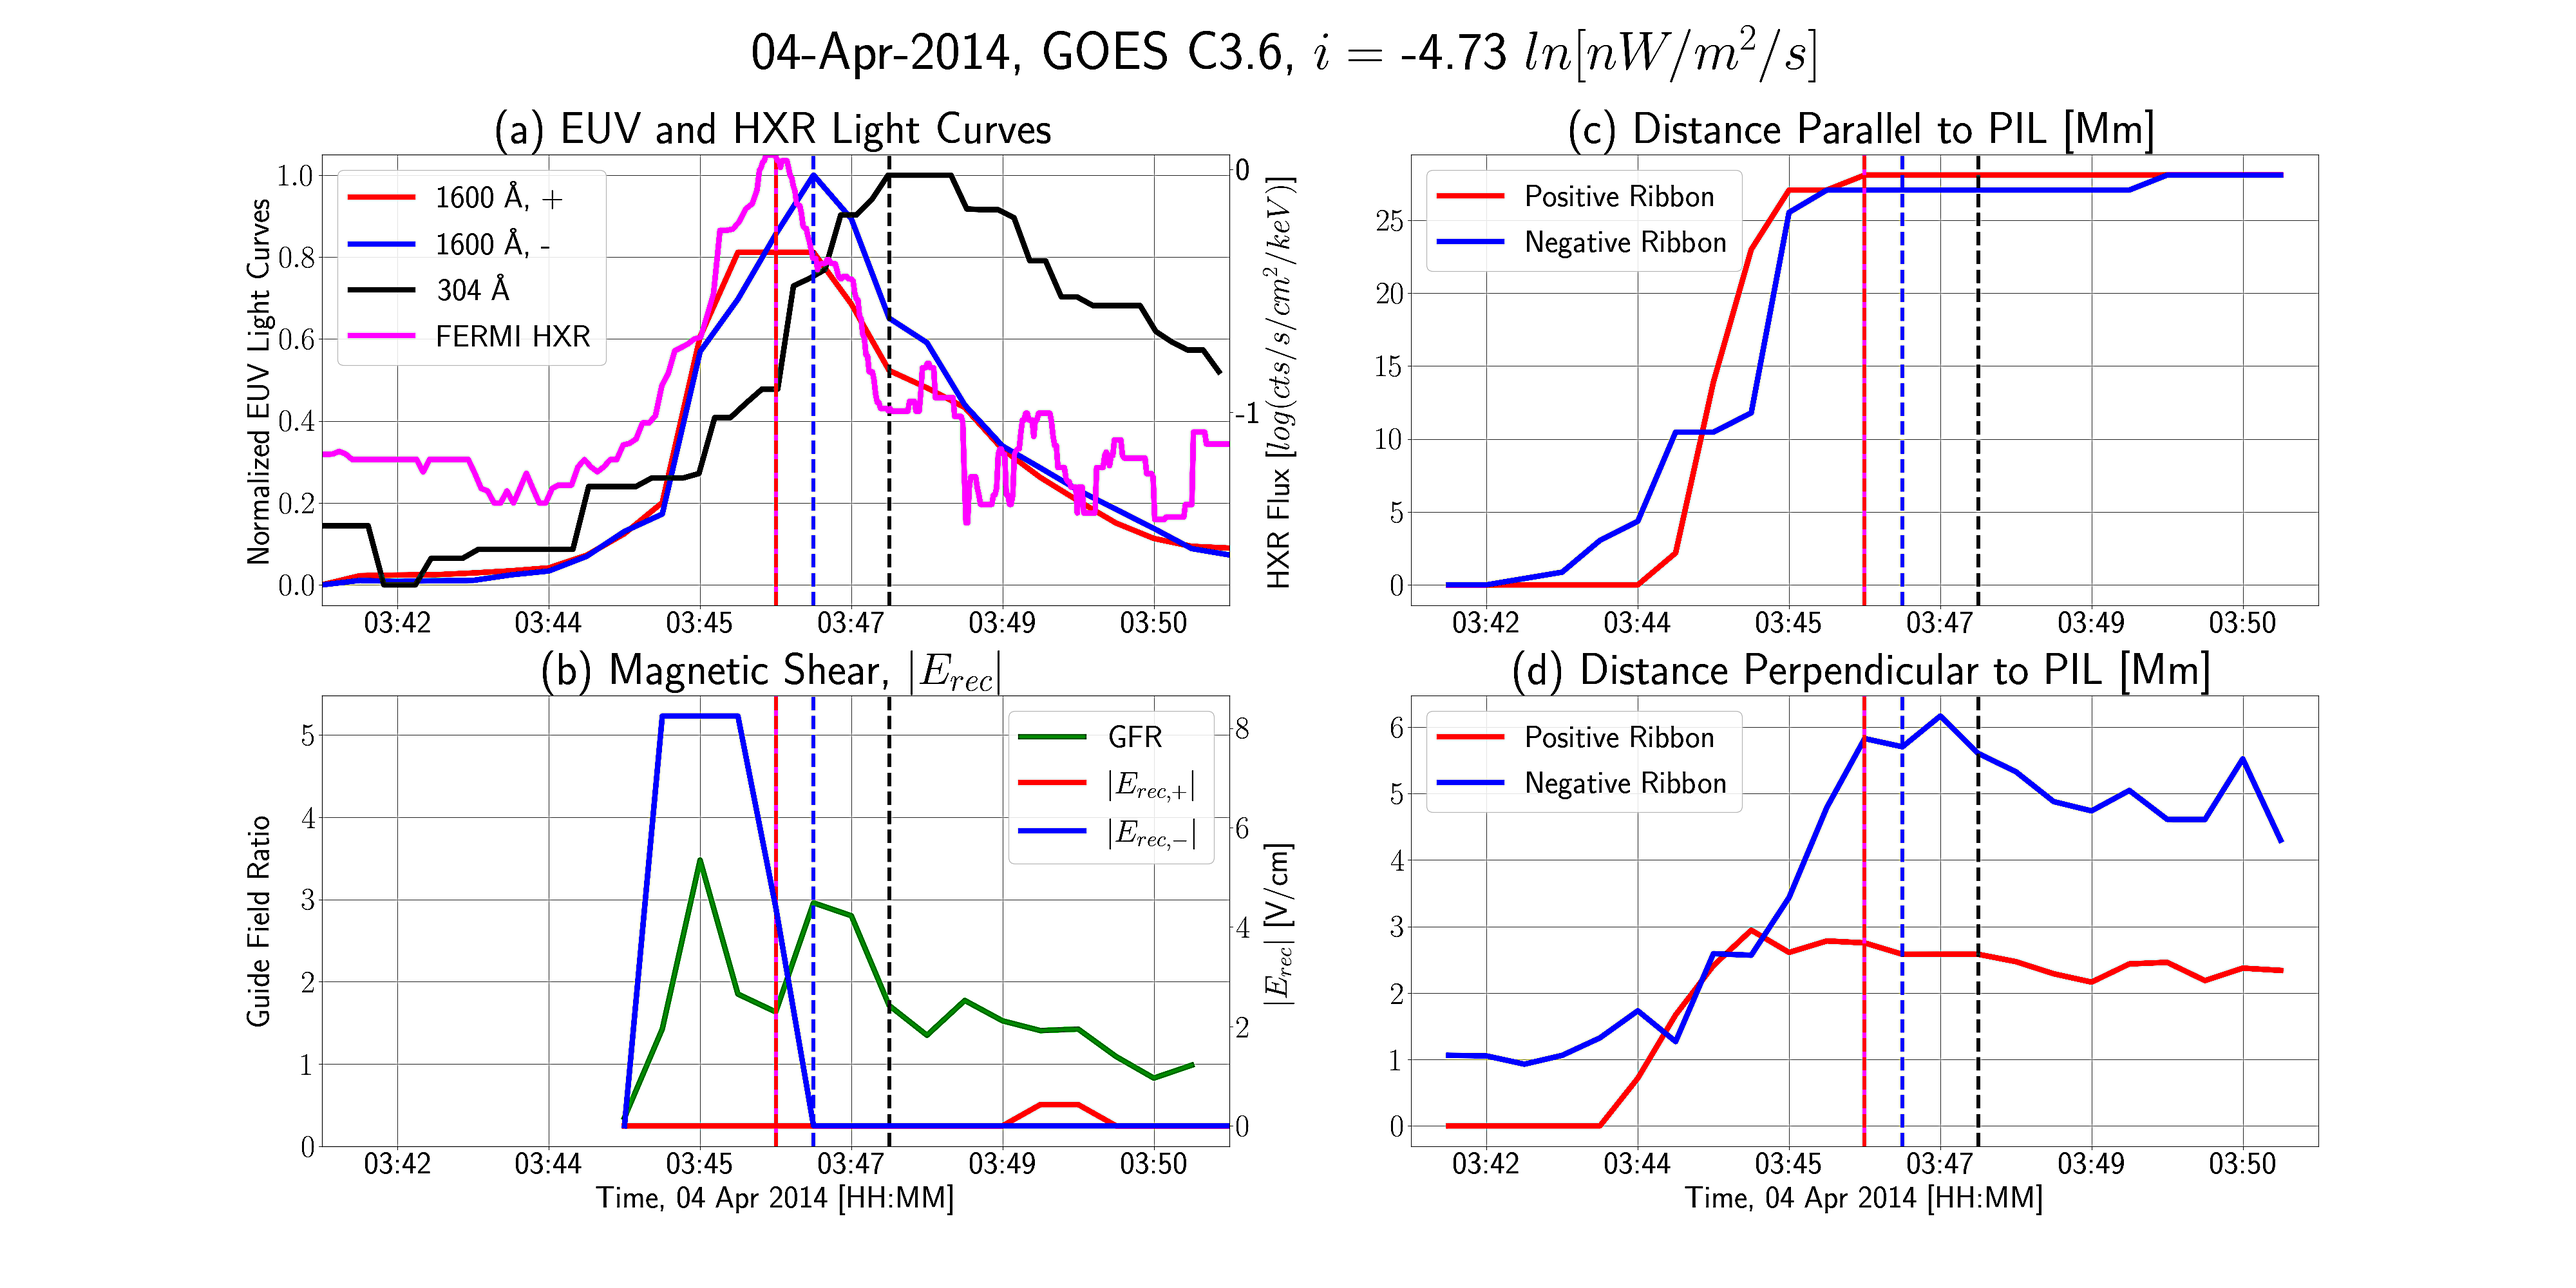
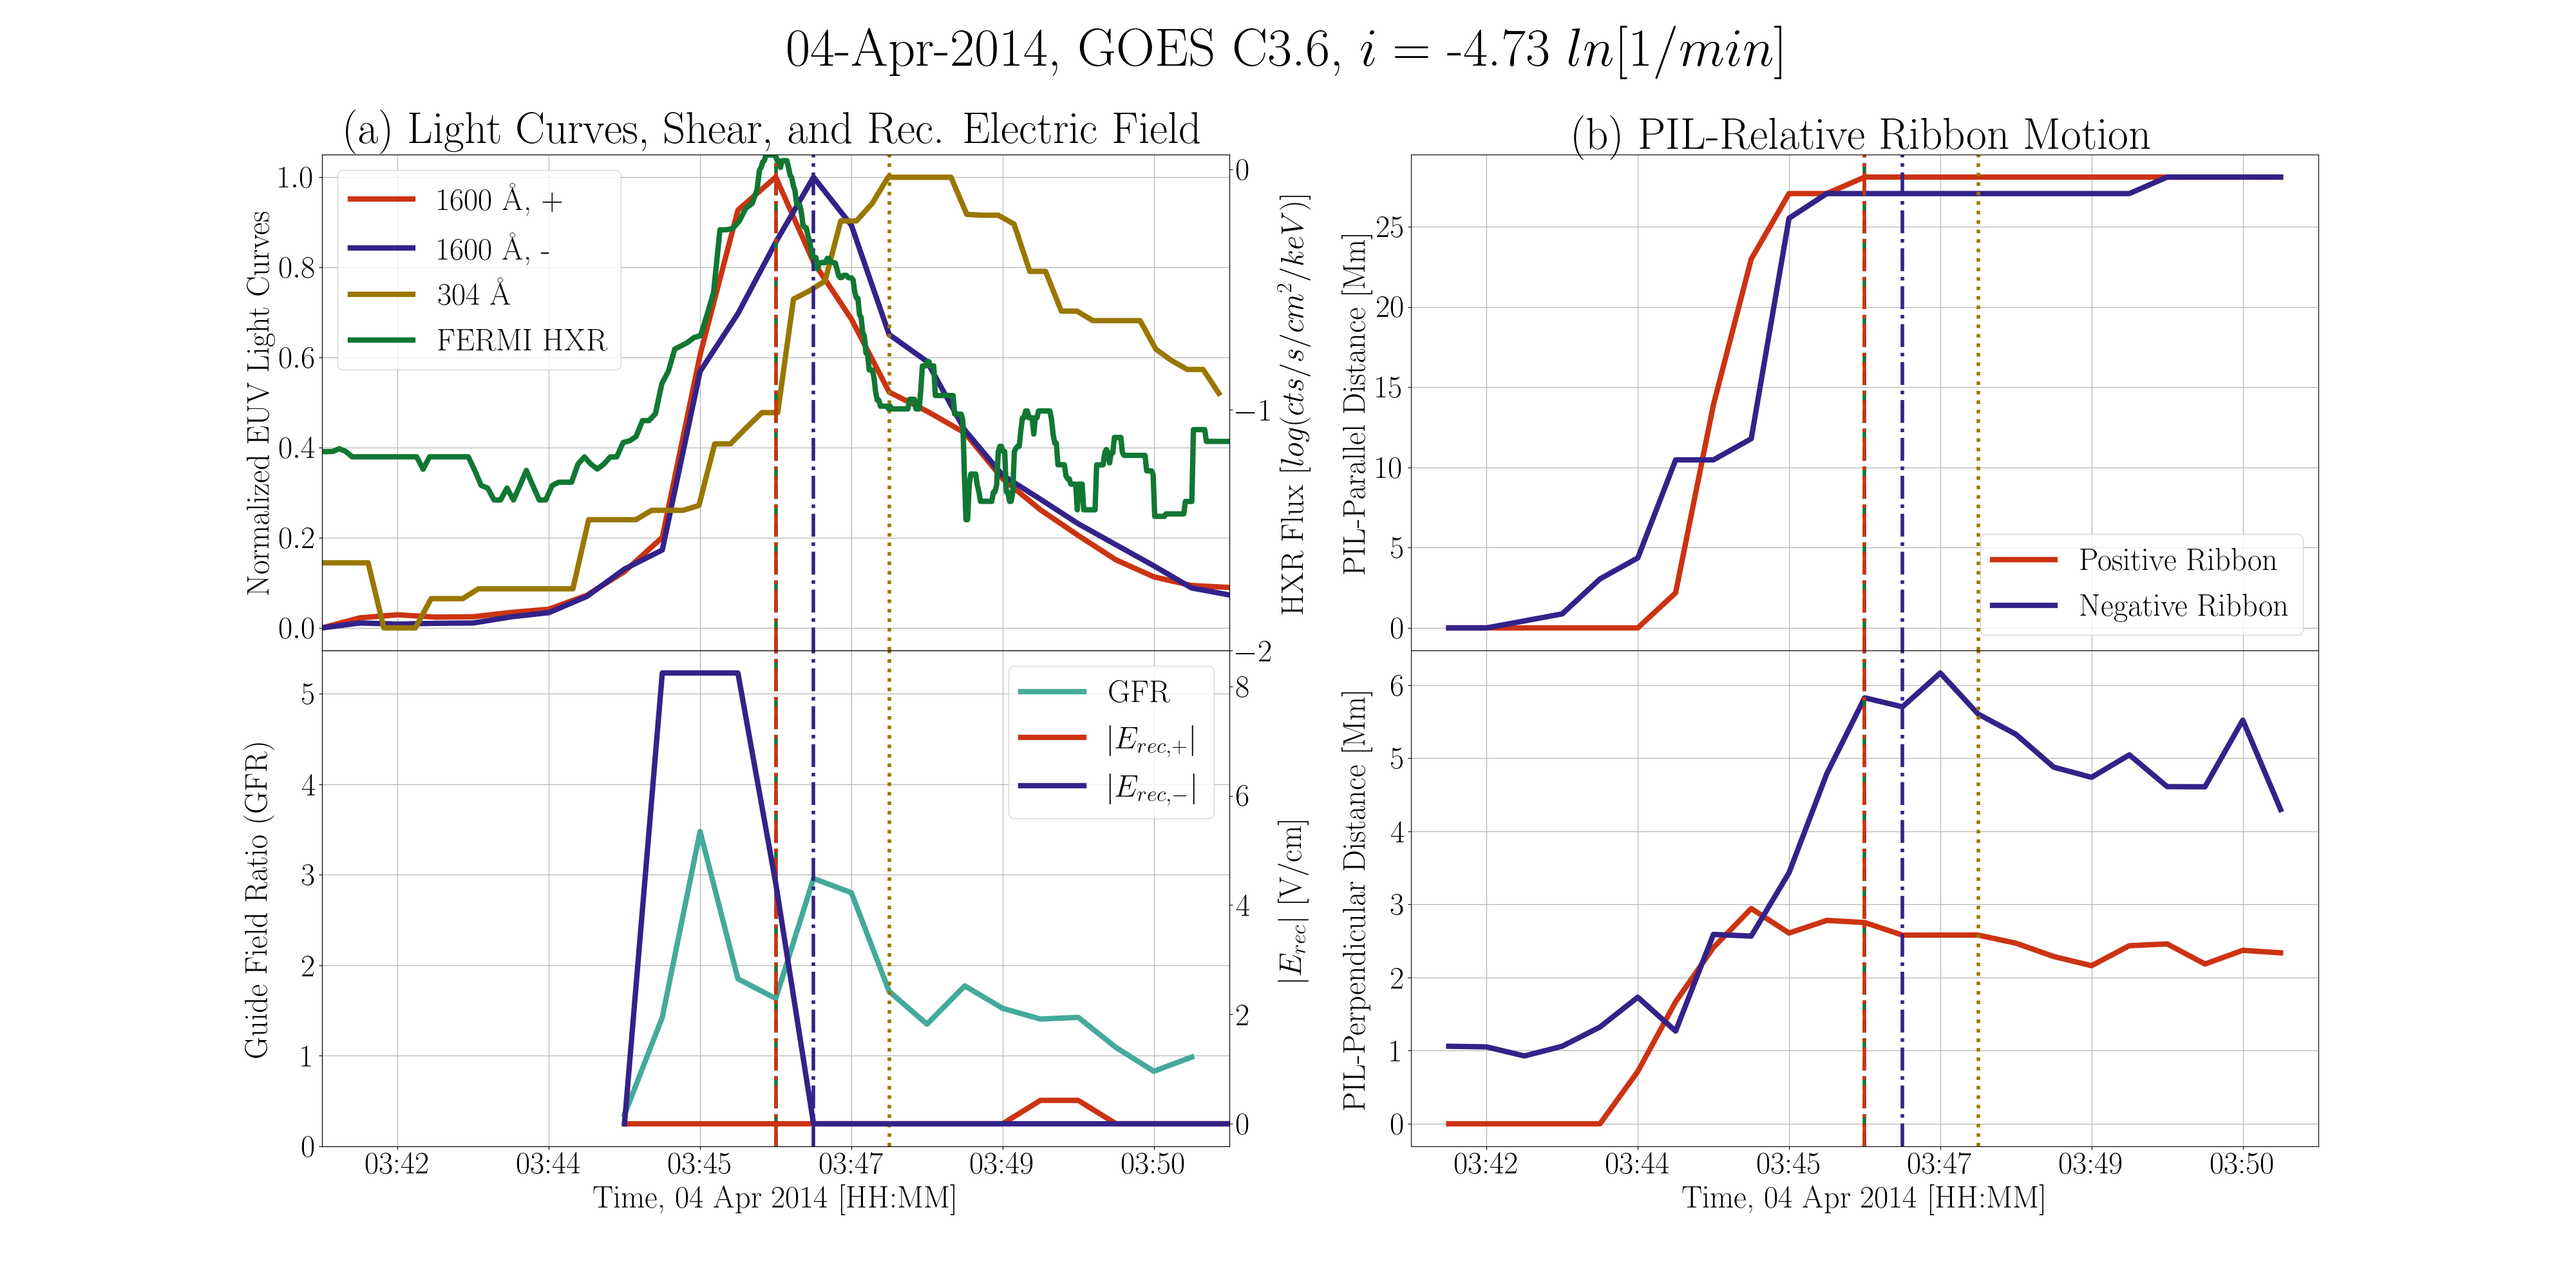
another round of fourpanel edits

diff --git a/fl_funcs.py b/fl_funcs.py
@@ -59,6 +59,7 @@ import time as timepkg
 from matplotlib import font_manager
 from matplotlib.ticker import MaxNLocator
 import pandas as pd
+from matplotlib import gridspec
 
 
 def conv_facts():
@@ -3772,7 +3773,7 @@ def gfrcalc_alt(guide, distneg_med, distpos_med):
     shear.
 
     Parameters
-    ----------
+Iw     ----------
     guide_left : arr
         Guide field strength, right-hand side.
     guide_right : arr
@@ -4151,7 +4152,8 @@ def quartermaxtime(transtime, right_gfr, left_gfr, timelab, find_nearest_idx,
     return quartermax_time
 
 def color_muted():
-    muted =['#332288',  '#88CCEE', '#44AA99', '#117733','#999933', '#DDCC77','#CC6677',  '#882255','#AA4499', '#DDDDDD']
+    muted =['#332288',  '#88CCEE', '#44AA99', '#117733','#999933', '#DDCC77',
+            '#CC6677',  '#882255','#AA4499', '#DDDDDD']
     # 0=indigo
     # 1=cyan
     # 2=teal
@@ -4164,8 +4166,24 @@ def color_muted():
     return muted
 
 def color_vibrant():
-    vibrant = ['#0077BB',  '#33BBEE', '#009988','#EE7733', '#CC3311', '#EE3377', '#BBBBBB'] 
+    vibrant = ['#0077BB',  '#33BBEE', '#009988','#EE7733', '#CC3311', 
+               '#EE3377', '#BBBBBB'] 
+    # CAT - changed grey to #5A5A5A to make darker; originally #BBBBBB
     return vibrant
+
+def color_medc(printc='no'):
+    contrast = [(255,255,255), (238,204,102), (238,153,170), (102,153,204), 
+                (153,119,0), (153,68,85), (0,68,136), (0,0,0)]
+    
+    # 0 is white, 1 is light yellow, 2 is light red, 3 is light blue,
+    # 4 is dark yellow, 5 is dark red, 6 is dark blue, 7 is black
+    for i in range(len(contrast)):    
+        r, g, b = contrast[i]    
+        contrast[i] = (r / 255., g / 255., b / 255.)
+
+    return contrast
+
+
 
 def plt_fourpanel(times, right_gfr, left_gfr, flnum, dt1600, time304,
                   filter_304, lens_pos_Mm, lens_neg_Mm, distpos_Mm, distneg_Mm,
@@ -4177,7 +4195,7 @@ def plt_fourpanel(times, right_gfr, left_gfr, flnum, dt1600, time304,
                   s304, e304, pos1600, neg1600, dn1600, indstrt_elon,
                   indstrt_sep, fermitimes, raw_hxr_sum, cspec_hxr_sum,
                   gfr_trans, E_pos, E_neg, time_E, day, mo, year, xcl, xclnum,
-                  imp, muted, vibrant, low_hxr=0, high_hxr=800, period_flag=0, flag=0,
+                  imp, muted, vibrant, medc, low_hxr=0, high_hxr=800, period_flag=0, flag=0,
                   tick_space=0):
     """
     Four-panel plot to compare HXR/1600 Angstrom/304 Angstrom (panel 1),
@@ -4337,22 +4355,34 @@ def plt_fourpanel(times, right_gfr, left_gfr, flnum, dt1600, time304,
     hxrmaxt = fermitimessel[hxrmax0]
     
     hxrmax = find_nearest_ind(dt1600, hxrmaxt)
+        
+    # 0 is white, 1 is light yellow, 2 is light red, 3 is light blue,
+    # 4 is dark yellow, 5 is dark red, 6 is dark blue, 7 is black
     
-    fig, ((ax1, ax3),(ax2, ax4)) = plt.subplots(2,2, figsize=(40, 20))
+    #fig, ((ax1, ax3),(ax2, ax4)) = plt.subplots(2,2, figsize=(40, 20))
+    fig = plt.figure(figsize=(40, 20))
+    # set height ratios for subplots
+    gs = gridspec.GridSpec(2,2) 
+    ax1 = plt.subplot(gs[0,0])
+    ax2 = plt.subplot(gs[1,0],sharex=ax1)
+    ax3 = plt.subplot(gs[0,1])
+    ax4 = plt.subplot(gs[1,1],sharex=ax3)
     
-    lns1 = ax1.plot(dt1600, normpos1600,markersize=5,linewidth=6, color=muted[8],
+    lns1 = ax1.plot(dt1600, normpos1600,markersize=5,linewidth=6, color=vibrant[4],
                     label=r'1600 \AA, +')
     lns2 = ax1.plot(dt1600, normneg1600, color=muted[0],linewidth=6,
                     label=r'1600 \AA, -')
 
-    lns3 = ax1.plot(dt304[s304:e304], scipy.signal.medfilt(euvdf_fix.euv[s304:e304],kernel_size=5),color=vibrant[5], linewidth=6,
+    lns3 = ax1.plot(dt304[s304:e304], scipy.signal.medfilt(euvdf_fix.euv[s304:e304],
+                                                           kernel_size=5),color=medc[4], 
+                    linewidth=6,
                     label=r'304 \AA')
     ax1_0 = ax1.twinx()
     ax1.axes.xaxis.set_ticklabels([])
     lns4 = ax1_0.plot(fermitimes[low_hxr:high_hxr],
                       scipy.signal.medfilt(
                           fermidf_fix.hxr, kernel_size=21),
-                      label='FERMI HXR', color = vibrant[2],linewidth=6)
+                      label='FERMI HXR', color = muted[3],linewidth=6)
     ax1.grid()
     lns = lns1+lns2+lns3+lns4
     labs = [k.get_label() for k in lns]
@@ -4363,14 +4393,14 @@ def plt_fourpanel(times, right_gfr, left_gfr, flnum, dt1600, time304,
     ax1_0.set_ylabel(
         'HXR Flux [$log(cts/s/cm^{2}/keV)$]',
         fontsize=35)
-    ax1.set_title('(a) EUV and HXR Light Curves',
+    ax1.set_title('(a) Light Curves, Shear,  and Rec. Electric Field',
                   fontsize=50)
     ax1.set_xlim([dt1600[0], dt1600[-1]])
-    ax1.axvline(dt1600[hxrmax],color=vibrant[6],linestyle='dashed',linewidth=4)
-    ax1.axvline(dt1600[max304], color=vibrant[5],linestyle='dashed',linewidth=4)
-    ax1.axvline(dt1600[max1600pos], color=muted[8],linestyle='dashed',linewidth=4)
-    ax1.axvline(dt1600[max1600neg], color=muted[0], linestyle='dashed',linewidth=4)
-    lns1 = ax2.plot(dt1600[gfr_trans:-1], GFR[gfr_trans:-1], c=muted[3],
+    ax1.axvline(dt1600[hxrmax],color=muted[3],linestyle='dashed',linewidth=4)
+    ax1.axvline(dt1600[max304], color=medc[4],linestyle='dotted',linewidth=4)
+    ax1.axvline(dt1600[max1600pos], color=vibrant[4],linestyle='dashdot',linewidth=4)
+    ax1.axvline(dt1600[max1600neg], color=muted[0], linestyle='dashdot',linewidth=4)
+    lns1 = ax2.plot(dt1600[gfr_trans:-1], GFR[gfr_trans:-1], c=muted[2],
                     linewidth=6,
                     label='GFR')
     minfer = min(scipy.signal.medfilt(
@@ -4378,23 +4408,23 @@ def plt_fourpanel(times, right_gfr, left_gfr, flnum, dt1600, time304,
     maxfer = max(scipy.signal.medfilt(
         fermidf_fix.hxr[0:500], kernel_size=9))
     ax1_0.set_ylim(minfer,maxfer)
-
+    
     ax2.set_ylabel('Guide Field Ratio (GFR)', fontsize=35)
-    ax2.set_title(r'(b) Magnetic Shear and $|E_{rec}|$',
-                  fontsize=50)
+    #ax2.set_title(r'(b) Magnetic Shear and $|E_{rec}|$',
+    #              fontsize=50)
     ax2.set_ylim([0, np.nanmax(GFR[gfr_trans:])+2])
     ax2.grid()
 
     ax2.set_xlim([dt1600[0], dt1600[-1]])
-    ax2.axvline(dt1600[hxrmax],color=vibrant[6],linestyle='dashed',linewidth=4)
-    ax2.axvline(dt1600[max304], color=vibrant[5],linestyle='dashed',linewidth=4)
-    ax2.axvline(dt1600[max1600pos], color=muted[8],linestyle='dashed',linewidth=4)
-    ax2.axvline(dt1600[max1600neg], color=muted[0], linestyle='dashed',linewidth=4)
+    ax2.axvline(dt1600[hxrmax],color=muted[3],linestyle='dashed',linewidth=4)
+    ax2.axvline(dt1600[max304], color=medc[4],linestyle='dotted',linewidth=4)
+    ax2.axvline(dt1600[max1600pos], color=vibrant[4],linestyle='dashdot',linewidth=4)
+    ax2.axvline(dt1600[max1600neg], color=muted[0], linestyle='dashdot',linewidth=4)
     font = font_manager.FontProperties(style='normal', size=35)
     #ax2.legend(prop=font, fontsize=20)
     ax2_0 = ax2.twinx()
     lns2 = ax2_0.plot(dt1600[gfr_trans:], E_pos, color=vibrant[4],linewidth=6, label='$|E_{rec, +}|$')
-    lns3 = ax2_0.plot(dt1600[gfr_trans:], E_neg, color=vibrant[1],linewidth=6, label='$|E_{rec, -}|$')
+    lns3 = ax2_0.plot(dt1600[gfr_trans:], E_neg, color=muted[0],linewidth=6, label='$|E_{rec, -}|$')
 
     ax2_0.set_xlim([dt1600[0], dt1600[-1]])
 
@@ -4423,21 +4453,21 @@ def plt_fourpanel(times, right_gfr, left_gfr, flnum, dt1600, time304,
              c=vibrant[4], linewidth=6, label = 'Positive Ribbon')
 
     lns2 = ax3.plot(dt1600[indstrt_elon:-1], lens_neg_Mm[indstrt_elon:-1],
-             c=vibrant[1],linewidth=6, label = 'Negative Ribbon')
+             c=muted[0],linewidth=6, label = 'Negative Ribbon')
 
     ax3.grid()
     ax3.set_ylabel(
-        'Distance [Mm]', fontsize=35)
-    ax3.set_title('(c) Distance Parallel to PIL',
+        'PIL-Parallel Distance [Mm]', fontsize=35)
+    ax3.set_title('(b) PIL-Relative Ribbon Motion',
                   fontsize=50)
 
     ax3.set_xlim([dt1600[0], dt1600[-1]])
 
 
-    ax3.axvline(dt1600[hxrmax],color=vibrant[6],linestyle='dashed',linewidth=4)
-    ax3.axvline(dt1600[max304], color=vibrant[5],linestyle='dashed',linewidth=4)
-    ax3.axvline(dt1600[max1600pos], color=muted[8],linestyle='dashed',linewidth=4)
-    ax3.axvline(dt1600[max1600neg], color=muted[0], linestyle='dashed',linewidth=4)
+    ax3.axvline(dt1600[hxrmax],color=muted[3],linestyle='dashed',linewidth=4)
+    ax3.axvline(dt1600[max304], color=medc[4],linestyle='dotted',linewidth=4)
+    ax3.axvline(dt1600[max1600pos], color=vibrant[4],linestyle='dashdot',linewidth=4)
+    ax3.axvline(dt1600[max1600neg], color=muted[0], linestyle='dashdot',linewidth=4)
     lns = lns1+lns2
     labs = [k.get_label() for k in lns]
     font = font_manager.FontProperties(style='normal', size=35,family='Tahoma')
@@ -4447,26 +4477,26 @@ def plt_fourpanel(times, right_gfr, left_gfr, flnum, dt1600, time304,
              markersize=6, linewidth=6, label = 'Positive Ribbon')
 
     lns2 = ax4.plot(dt1600[indstrt_sep:-1], distneg_Mm[indstrt_sep:-1],
-             c=vibrant[1], linewidth=6, label = 'Negative Ribbon')
+             c=muted[0], linewidth=6, label = 'Negative Ribbon')
 
     ax4.set_ylabel(
-        'Distance [Mm]', fontsize=35)
-    ax4.set_title('(d) Distance Perpendicular to PIL',
-                  fontsize=50)
+        'PIL-Perpendicular Distance [Mm]', fontsize=35)
+    #ax4.set_title('(d) Distance Perpendicular to PIL',
+    #              fontsize=50)
 
     ax4.set_xlim([dt1600[0], dt1600[-1]])
 
-    ax4.axvline(dt1600[hxrmax],color=vibrant[6],linestyle='dashed',linewidth=4)
-    ax4.axvline(dt1600[max304], color=vibrant[5],linestyle='dashed',linewidth=4)
-    ax4.axvline(dt1600[max1600pos], color=muted[8],linestyle='dashed',linewidth=4)
-    ax4.axvline(dt1600[max1600neg], color=muted[0], linestyle='dashed',linewidth=4)
+    ax4.axvline(dt1600[hxrmax],color=muted[3],linestyle='dashed',linewidth=4)
+    ax4.axvline(dt1600[max304], color=medc[4],linestyle='dotted',linewidth=4)
+    ax4.axvline(dt1600[max1600pos], color=vibrant[4],linestyle='dashdot',linewidth=4)
+    ax4.axvline(dt1600[max1600neg], color=muted[0], linestyle='dashdot',linewidth=4)
     ax4.grid()
     ax4.set_xlabel('Time, '+day+' '+mo+' '+year+' [HH:MM]',
                    fontsize=35)
     lns = lns1+lns2
     labs = [k.get_label() for k in lns]
     font = font_manager.FontProperties(style='normal', size=35,family='Tahoma')
-    ax4.legend(lns, labs, prop=font, fontsize=35)
+    #ax4.legend(lns, labs, prop=font, fontsize=35)
     ax2.set_xlabel('Time, '+day+' '+mo+' '+year+' [HH:MM]',
                    fontsize=35)
 
@@ -4508,6 +4538,9 @@ def plt_fourpanel(times, right_gfr, left_gfr, flnum, dt1600, time304,
     fig.suptitle(day+'-'+mo+'-'+year+', GOES '+xcl+str(xclnum)+', '+
                  r'$i =$ '+str(imp)+r' $ln[1/min]$',fontsize=60)
     
+    plt.setp(ax1.get_xticklabels(), visible=False)
+    plt.setp(ax3.get_xticklabels(), visible=False)
+    plt.subplots_adjust(hspace=.0)
 
     if period_flag == 1:
         for i, j in zip(elonperiod_start_pos, elonperiod_end_pos):

diff --git a/high1_process.py b/high1_process.py
@@ -315,6 +315,7 @@ print(quartermaxtim)
 
 muted = fl_funcs.color_muted()
 vibrant = fl_funcs.color_vibrant()
+medc = fl_funcs.color_medc()
 
 fl_funcs.plt_fourpanel(times, gfr, gfr, flnum, dt1600, time304,
                        filter_304, lens_pos_Mm, lens_neg_Mm, distpos_Mm,
@@ -326,7 +327,7 @@ fl_funcs.plt_fourpanel(times, gfr, gfr, flnum, dt1600, time304,
                        s304, e304, pos1600, neg1600, dn1600, indstrt_elon,
                        indstrt_sep, fermitimes, raw_hxr_sum, cspec_hxr_sum,
                        gfr_trans, E_pos, E_neg, time_E, daystr,mostrcap,yearstr,
-                       xcl,xclnum,imp, muted, vibrant, low_hxr=3500, high_hxr=4500,
+                       xcl,xclnum,imp, muted, vibrant, medc, low_hxr=3500, high_hxr=4500,
                        period_flag=0, tick_space=4)
 
 file = 'high1shear'
